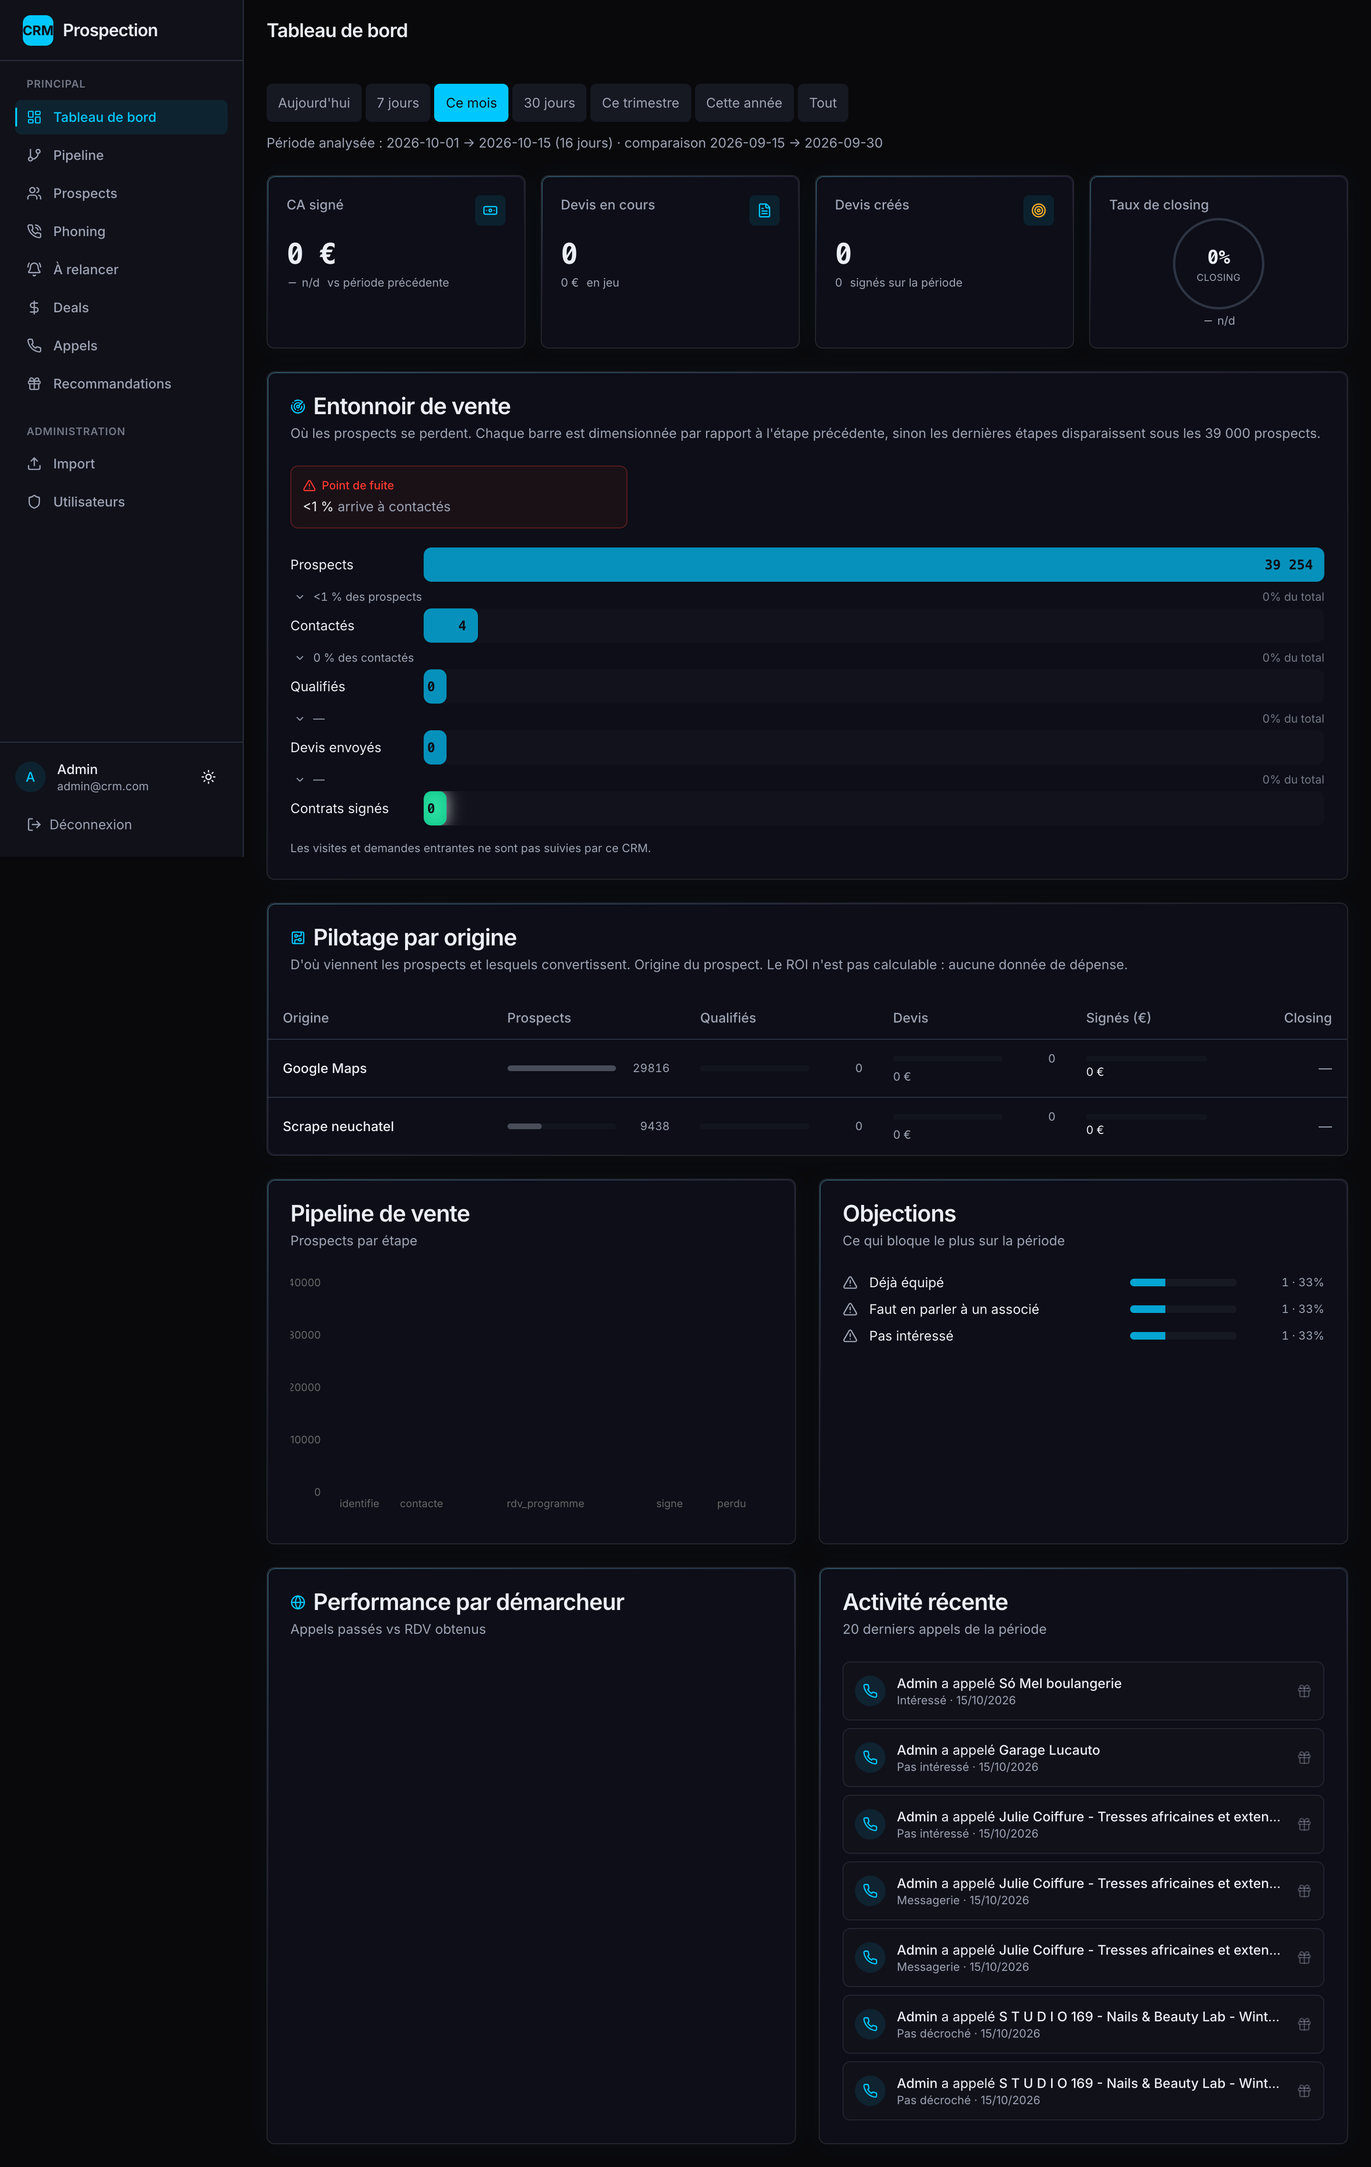
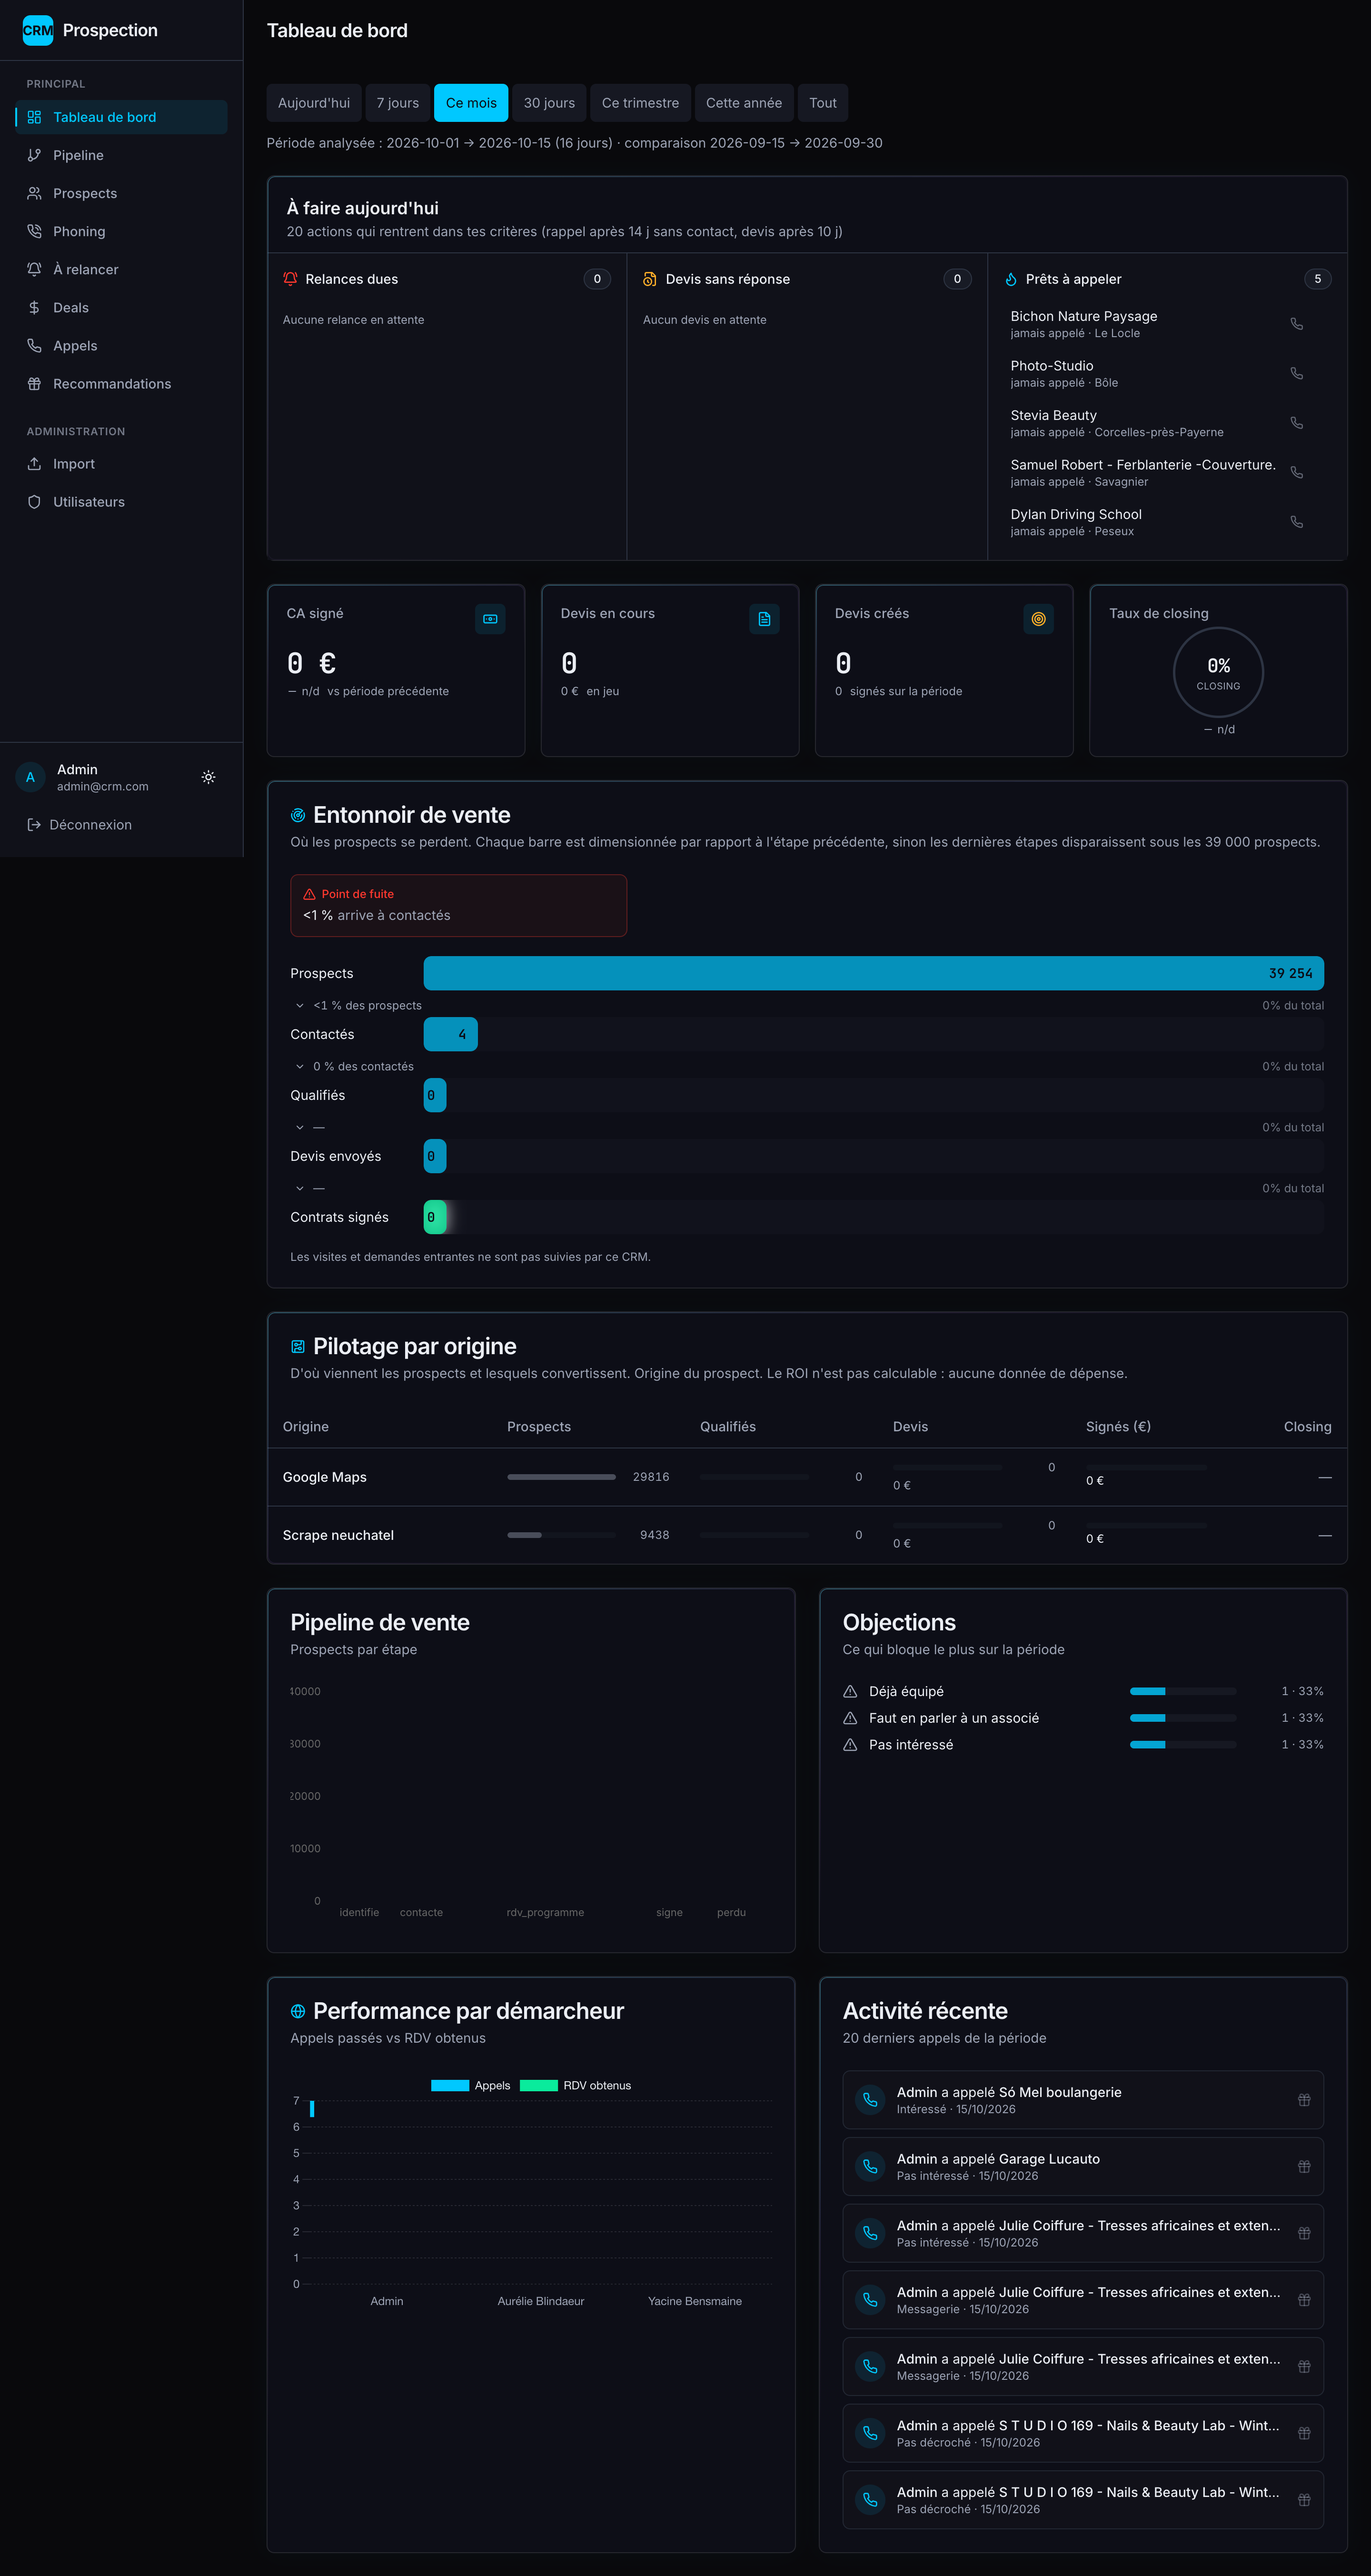
Make the action badges count the query result, not the visible slice
The header said 20 actions while the badge said 5, because the badge counted the
sliced list. It now counts what the query returned and the list states how many
more exist.

diff --git a/src/components/bits/ActionsPanel.tsx b/src/components/bits/ActionsPanel.tsx
@@ -71,14 +71,17 @@ export function ActionsPanel({ items, thresholds }: ActionsPanelProps) {
 
       <div className="grid grid-cols-1 gap-px border-t border-border bg-border md:grid-cols-3">
         {GROUPS.map(group => {
-          const groupItems = items.filter(i => i.kind === group.kind).slice(0, 5);
+          const all = items.filter(i => i.kind === group.kind);
+          // The badge counts what the query found; the list is only the first
+          // few, and says so, so the two never disagree.
+          const groupItems = all.slice(0, 5);
           const Icon = group.icon;
           return (
             <div key={group.kind} className="bg-card p-4">
               <div className="mb-3 flex items-center gap-2">
                 <Icon className={`h-4 w-4 shrink-0 ${group.tone}`} />
                 <span className="text-sm font-medium">{group.title}</span>
-                <Badge variant="secondary" className="ml-auto">{groupItems.length}</Badge>
+                <Badge variant="secondary" className="ml-auto">{all.length}</Badge>
               </div>
 
               {groupItems.length === 0 ? (
@@ -109,6 +112,12 @@ export function ActionsPanel({ items, thresholds }: ActionsPanelProps) {
                     </li>
                   ))}
                 </ul>
+              )}
+
+              {all.length > groupItems.length && (
+                <p className="mt-2 px-2 text-xs text-muted-foreground">
+                  + {all.length - groupItems.length} autre{all.length - groupItems.length > 1 ? 's' : ''}
+                </p>
               )}
             </div>
           );
